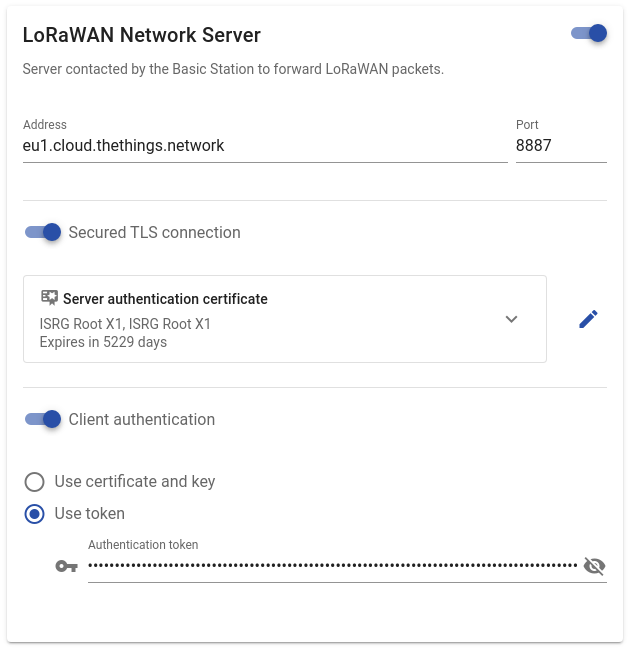
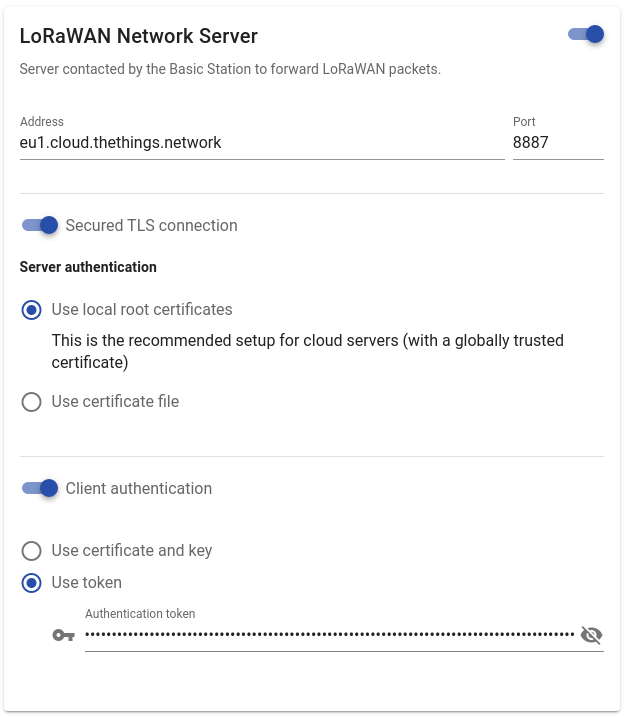
doc: Fix minor issues in guide for connecting Lorix gw (#881)

diff --git a/doc/content/gateways/lorix-one/lbs.md b/doc/content/gateways/lorix-one/lbs.md
@@ -7,6 +7,8 @@ This section contains instructions for connecting to {{% tts %}} using [{{% lbs 
 
 <!--more-->
 
+## Enable the Basic Station
+
 Go to the **LoRa > Settings page > Forwarder tab**.
 
 {{< figure src="../lorix-one-lora-settings-forwarder.png" alt="LORIX One LoRa forwarder page" >}}
@@ -19,20 +21,17 @@ In the list, select **LoRa Basic Station** and press apply.
 
 {{< figure src="../lorix-one-lora-settings-forwarder-change-bs.png" alt="LORIX One LoRa forwarder Basic Station selection" class="plain" >}}
 
-## LNS
+## Configure the LNS
 
-Scroll down to the **Configuration** section and enable the **LoRaWAN Network Server**.
+Scroll down to the **Configuration** section and enable the **LoRaWAN Network Server** option.
 
 {{< figure src="../lorix-one-lora-settings-bs.png" alt="LORIX One LoRa forwarder Basic Station LNS" >}}
 
-To connect the gateway via LNS protocol, follow the instructions for [Connecting LNS]({{< ref "/gateways/lora-basics-station/lns" >}}).
-
 Configure the **Address** with the server address of your deployment, and **Port** with LNS port `8887`.
 
-Enable the **Secured TLS connection** and upload the [LNS Server Certificate]({{< ref "/gateways/lora-basics-station/lns#lns-server-certificate--lns-trust" >}}) as a **Server authentication certificate**.
+Enable the **Secured TLS connection** and select the **Use local root certificates** option. If you need to use a certificate specific to your infrastructure (for on-premise installations), use the **Use certificate file** option instead and upload the certificate.
 
-Enable the **Client authentication**, select **Use token**, then copy the [LNS Key File]({{< ref "/gateways/lora-basics-station/lns#lns-key-file" >}}) and paste it as an **Authentication token**.
-
+Enable the **Client authentication**, select **Use token**, and set the previously saved API key in the **Authentication token** field. This key was shown to you as you created it when [registering the gateway]({{< ref "/gateways/adding-gateways#create-gateway-api-key" >}}). If you did not copy the key, you can delete it and create a new one.
 
 {{< figure src="../lorix-one-lora-settings-bs-lns.png" alt="LORIX One LoRa forwarder Basic Station LNS" class="plain" >}}
 

diff --git a/doc/content/gateways/lorix-one/_index.md b/doc/content/gateways/lorix-one/_index.md
@@ -5,7 +5,7 @@ description: ""
 
 {{< figure src="lorix-one.png" alt="LORIX One" class="plain float" >}}
 
-The LORIX One is a robust and professional grade outdoor LoRaWAN® gateway in an ultra compact form factor, designed and assembled in Switzerland. The LORIX One supports ethernet, wireless, and cellular backhauls.
+The LORIX One is a robust and professional grade outdoor LoRaWAN® gateway in an ultra compact form factor, designed and assembled in Switzerland.
 
 This page will guide you through the steps required to connect the gateway to {{% tts %}}.
 
@@ -52,7 +52,7 @@ To get the Gateway EUI from the Manager UI, connect to your gateway and check th
 
 ## Registration
 
-Create a gateway by following the instructions for [Adding Gateways]({{< ref "/gateways/adding-gateways" >}}).
+Create a gateway in {{% tts %}} Console by following the instructions for [Adding Gateways]({{< ref "/gateways/adding-gateways" >}}). Copy the API Key to a notepad, as you will need it later.
 
 ## Configuration
 
@@ -79,4 +79,4 @@ In the **Antenna** field, select the antenna you have connected.
 
 ## Configure the Packet Forwarder
 
-After completing basic configuration, follow the instructions for connecting using [{{% lbs %}}]({{< relref "lbs" >}}) or the [UDP Packet Forwarder]({{< relref "udp" >}}).
+After completing basic configuration, follow the instructions for connecting using [{{% lbs %}}]({{< relref "lbs" >}}). It is also possible to connect the gateway usgin the legacy [UDP Packet Forwarder]({{< relref "udp" >}}) if necessary.
